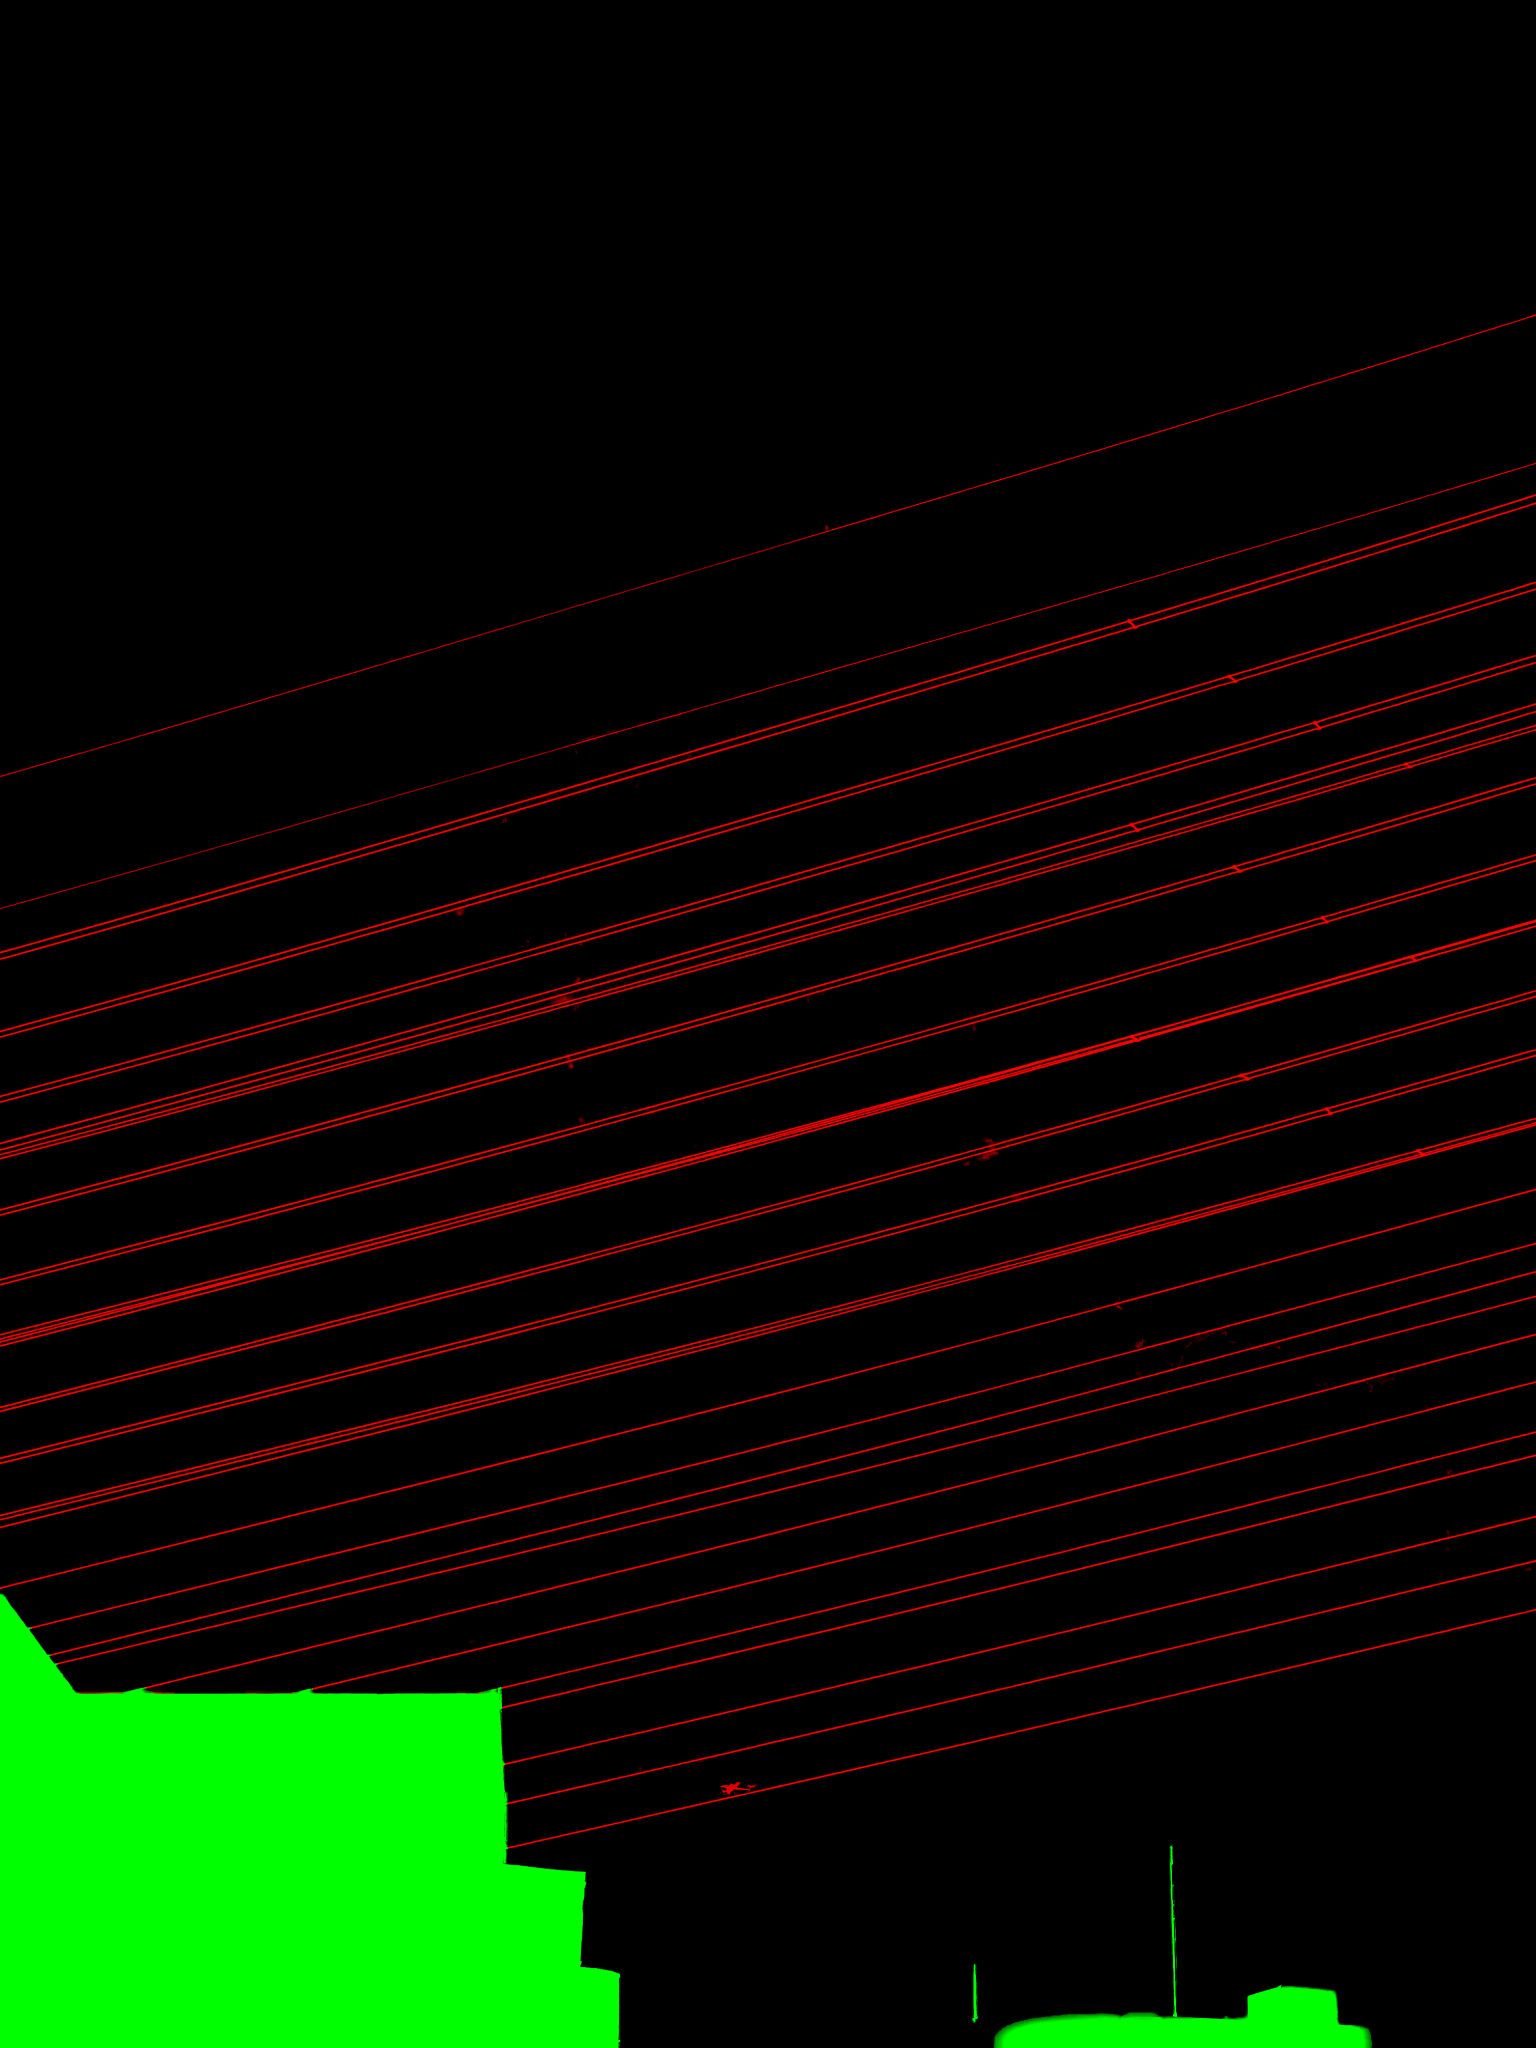
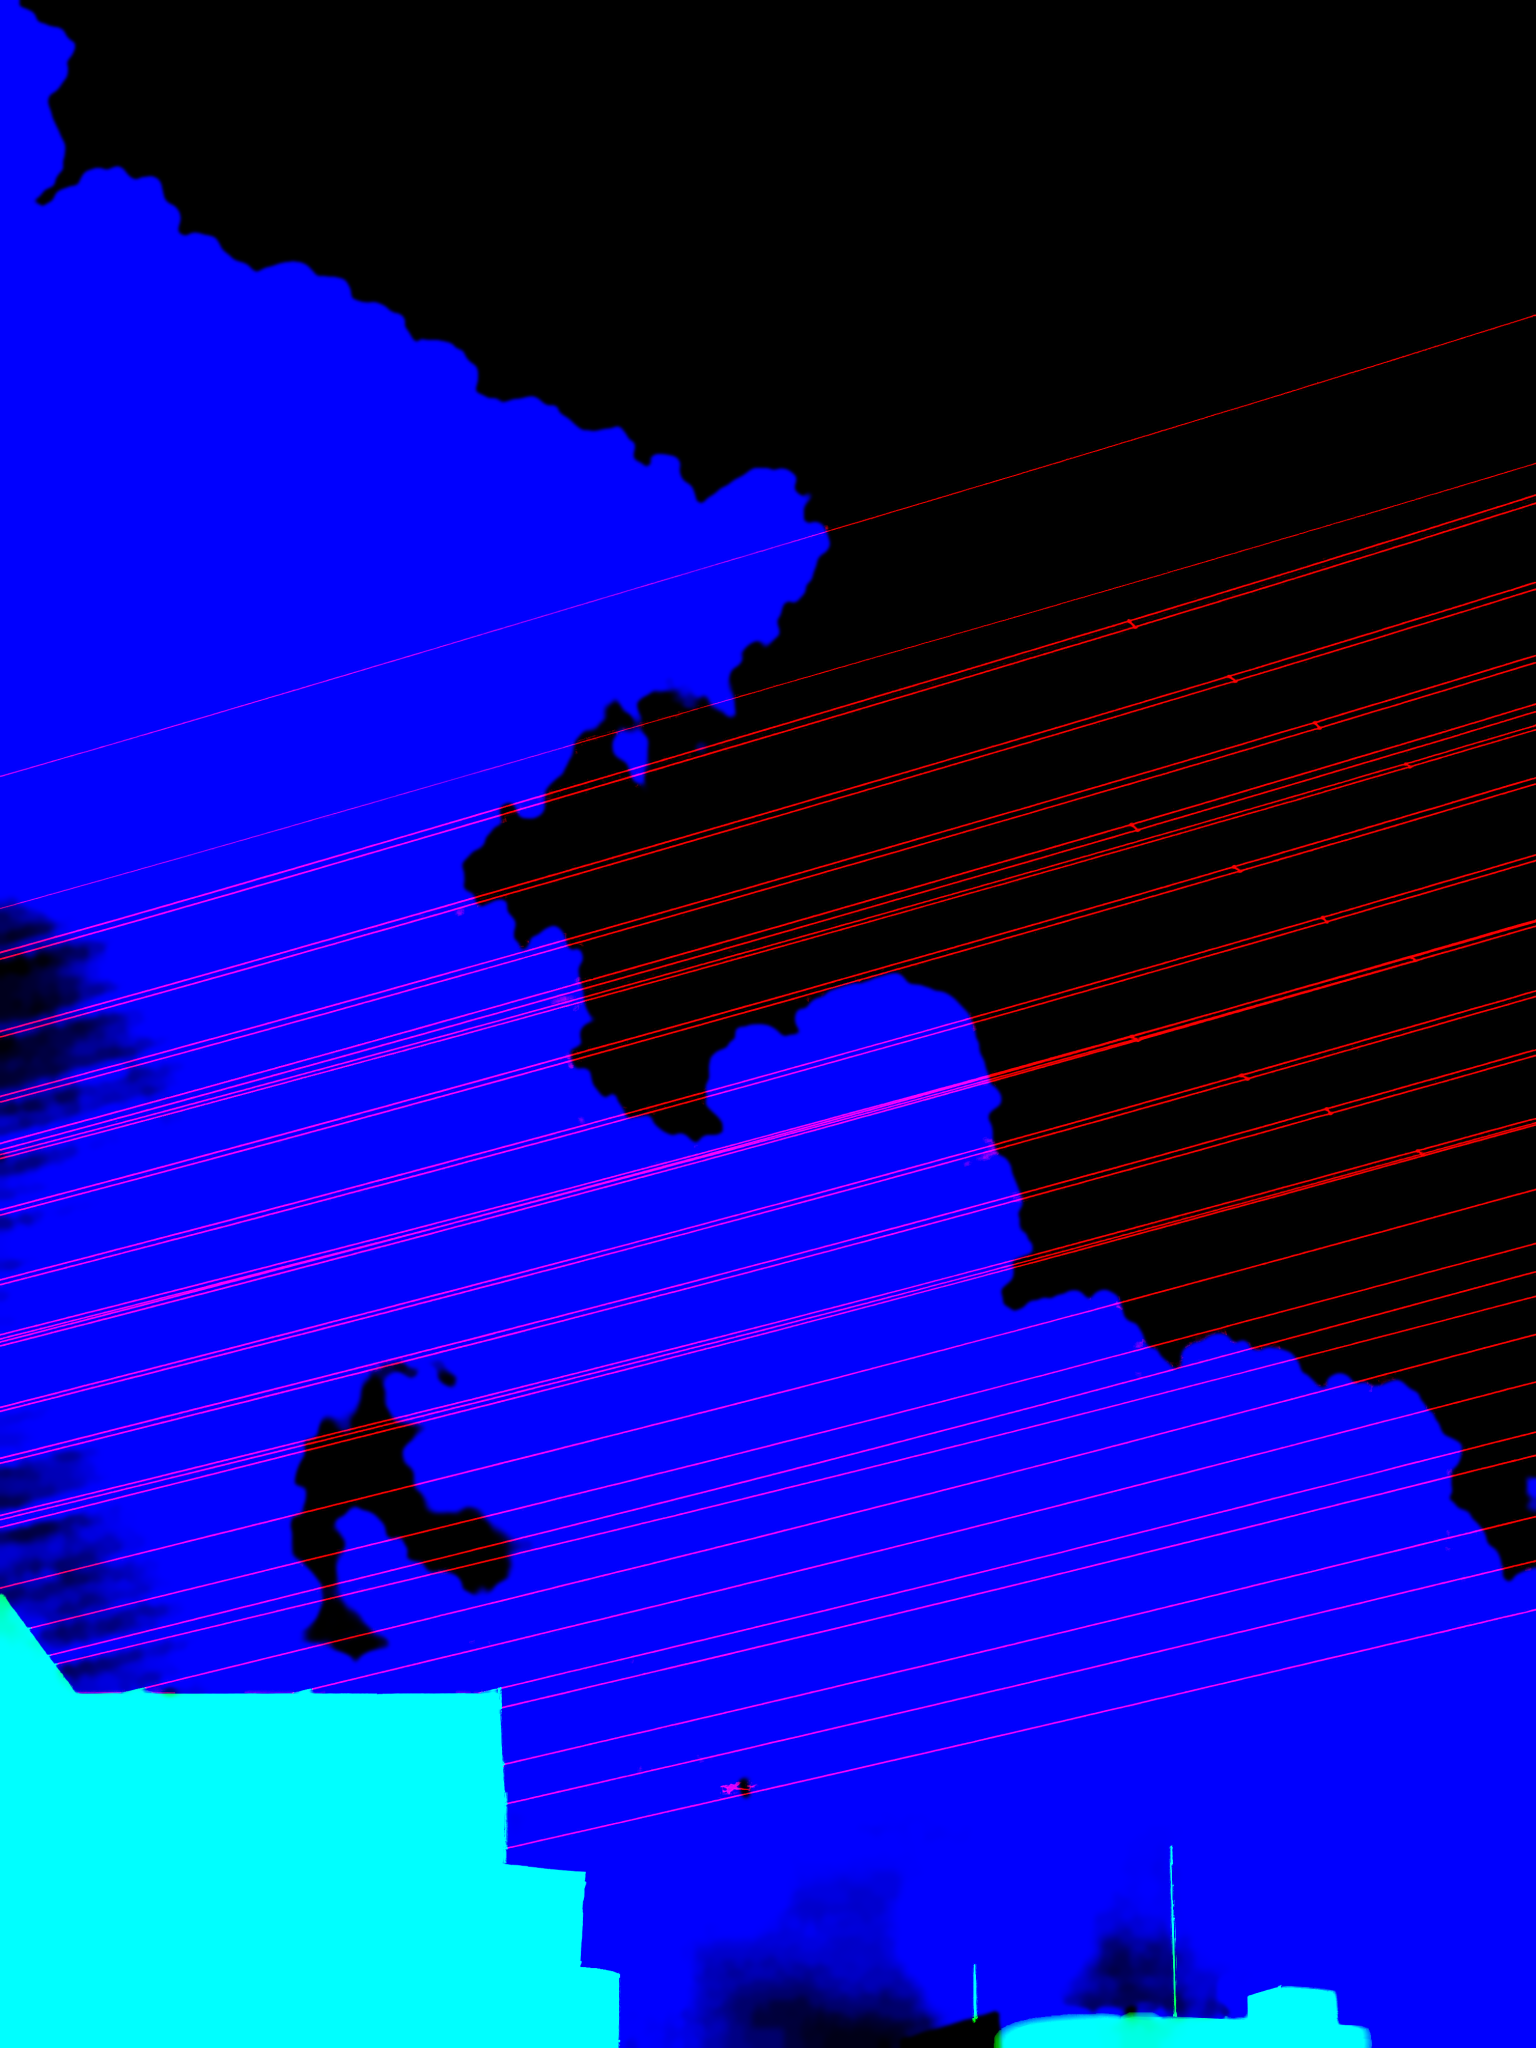
Lab: climb motion-brush round 1
Claude-Session: https://claude.ai/code/session_01RqENhngNCzDFmJWDZueXGV

diff --git a/src/app/lab/motion-brush/brushEngine.js b/src/app/lab/motion-brush/brushEngine.js
@@ -16,7 +16,13 @@ import { WIRE_Y, WIRE_VIS } from "./wires";
 // straight offset) a curved stroke carries the cloud round the curve instead
 // of smearing it. The two branches are blended with a variance-preserving
 // operator (Neyret 2003; Heitz & Neyret 2018) about a shared low-pass mean,
-// so the moving cloud keeps its grain instead of going soft mid-loop.
+// so the moving cloud keeps its grain instead of going soft mid-loop. The
+// blend is occlusion-aware: a branch whose source lies in the other layer
+// (cloud vs sky, baked into layers.png b), or that stalled, loses its weight,
+// and where the branches disagree the blend narrows to one of them, so a
+// diverging flow never leaves a double exposure. Open sky and the band along
+// the cloud's silhouette are held still, so the outline (and the dark pockets
+// of sky inside it) stays put while the cloud's texture drifts.
 //
 // The photograph is taken apart offline: the 26 wires are found as tracked
 // centrelines, matted (I = P + (1 - a) B, P their premultiplied colour, B the
@@ -41,7 +47,6 @@ const S0 = 520; // css px/s of pointer speed for 63% of VMAX
 const AMAX = 9; // plate px of wire sway for a fast stroke
 const K = WIRE_Y.length;
 const NS = WIRE_Y[0].length;
-const ZBETA = "7.0";
 const VIEW = [0.022, 0.022, 0.956, 0.956];
 
 // The pre-painted stroke: a slow drift right and a little up along the lean
@@ -74,7 +79,7 @@ uniform sampler2D uPlate;   // sky layer: wires painted out, roofs filled
 uniform sampler2D uLow;     // the same, Gaussian sigma 12 px
 uniform sampler2D uPhoto;   // the photograph
 uniform sampler2D uWire;    // premultiplied wire colour P
-uniform sampler2D uLayers;  // r wire alpha, g building alpha
+uniform sampler2D uLayers;  // r wire alpha, g building alpha, b cloud (vs sky)
 uniform sampler2D uField;   // vx, vy (plate px/s), cos, sin of paint phase
 uniform sampler2D uWGeo;    // ${NS} x ${K}: r wire centre y / PH
 uniform sampler2D uWAmp;    // ${NS} x ${K}: r sway amplitude px, g phase
@@ -104,6 +109,11 @@ void main() {
 
   // --- sky: two branches of the Eulerian flow, symmetric about the photo ---
   vec3 sky;
+  // the plate's mip level, taken here in uniform control flow: inside the
+  // branch below, neighbouring pixels can take the other path, and implicit
+  // derivatives there pick a blurred mip along the seam
+  vec2 dp = max(abs(dFdx(p)), abs(dFdy(p)));
+  float lod = max(0.0, log2(max(dp.x, dp.y)));
   vec4 f = texture(uField, pu);
   if (dot(f.rg, f.rg) * uEnv * uEnv < 1e-4) {
     sky = texture(uPlate, pu).rgb;
@@ -125,24 +135,53 @@ void main() {
     // sooner near its own end, where it has drifted furthest from the other
     float w = smoothstep(0.18, 0.86, tau / N);
     vec2 u1 = q1 / PLATE, u2 = q2 / PLATE;
-    vec3 a = texture(uPlate, u1).rgb, b = texture(uPlate, u2).rgb;
-    vec3 ma = texture(uLow, u1).rgb, mb = texture(uLow, u2).rgb;
-    // Softmax blend (the z-weighting of Holynski's symmetric splatting, with
-    // brightness standing in for the learned z): where one branch has cloud
-    // and the other open sky, the cloud wins, so mid-loop the cloud reads as
-    // one body that has grown a little rather than two half-transparent ones.
-    // (strongest mid-loop; near either end the outgoing branch just fades,
-    // so it never lingers as a ghost of where the cloud was headed)
-    float beta = ${ZBETA} * 4.0 * w * (1.0 - w);
-    float za = exp(beta * dot(ma, vec3(0.2126, 0.7152, 0.0722)));
-    float zb = exp(beta * dot(mb, vec3(0.2126, 0.7152, 0.0722)));
-    float wb = w * zb / ((1.0 - w) * za + w * zb);
+    vec3 a = textureLod(uPlate, u1, lod).rgb, b = textureLod(uPlate, u2, lod).rgb;
+    vec3 ma = textureLod(uLow, u1, 0.0).rgb, mb = textureLod(uLow, u2, 0.0).rgb;
+    vec3 sp = textureLod(uPlate, pu, lod).rgb;
+
+    // --- occlusion-aware blend ---
+    // A plain symmetric blend averages two warped copies, and where the flow
+    // diverges (a stroke's flank, the cloud/sky edge) those copies hold
+    // different things, so the result is a double exposure: a milky ghost of
+    // cloud over a dark pocket of sky. Instead each branch is weighted by how
+    // far it can be trusted at this pixel:
+    //  - layer: its source pixel must lie in the same layer (sky or cloud,
+    //    layers.b) as this pixel in the photograph, so a silhouette is never
+    //    carried across another layer;
+    //  - stall: it must have travelled about as far as the flow here says, or
+    //    it has run into the still band at a layer edge and is smearing.
+    // Where the two branches disagree (their luma, or the field's divergence),
+    // the blend narrows towards whichever branch is trusted, so the pixel is
+    // one sample, never two halves. Where neither is, the photograph holds.
+    // At either end of the loop the arriving branch sits on the pixel itself
+    // and has full trust, so the loop still starts and ends on the photograph.
+    float cp = textureLod(uLayers, pu, 2.0).b;
+    float ka = 1.0 - smoothstep(0.2, 0.6, abs(textureLod(uLayers, u1, 2.0).b - cp));
+    float kb = 1.0 - smoothstep(0.2, 0.6, abs(textureLod(uLayers, u2, 2.0).b - cp));
+    float sv = length(vel(p));
+    ka *= smoothstep(0.25, 0.6, (length(q1 - p) + 6.0) / (tau * sv + 6.0));
+    kb *= smoothstep(0.25, 0.6, (length(q2 - p) + 6.0) / ((N - tau) * sv + 6.0));
+    // divergence of the field (1/s) times the loop: the fraction by which a
+    // patch grows or shrinks over one loop
+    vec2 e = 1.0 / vec2(${GW}.0, ${GH}.0);
+    float div = (texture(uField, pu + vec2(e.x, 0.0)).r - texture(uField, pu - vec2(e.x, 0.0)).r) / (2.0 * PLATE.x * e.x)
+              + (texture(uField, pu + vec2(0.0, e.y)).g - texture(uField, pu - vec2(0.0, e.y)).g) / (2.0 * PLATE.y * e.y);
+    const vec3 LW = vec3(0.2126, 0.7152, 0.0722);
+    float dis = max(abs(dot(ma - mb, LW)), 0.6 * abs(dot(a - b, LW)));
+    float conflict = max(smoothstep(0.02, 0.07, dis), smoothstep(0.3, 0.9, abs(div) * uEnv * N));
+    float wa0 = (1.0 - w) * ka, wb0 = w * kb;
+    float wb = wb0 / max(wa0 + wb0, 1e-4);
+    if (wa0 + wb0 < 1e-4) wb = w;
+    wb = mix(wb, smoothstep(0.3, 0.7, wb), conflict);
     // Variance-preserving blend about the low-pass mean: the detail of two
     // decorrelated samples, averaged, loses contrast by sqrt(w^2+(1-w)^2);
     // give it back, in proportion to how decorrelated they are.
     float dc = smoothstep(2.0, 30.0, length(q1 - q2));
     float g = mix(1.0, inversesqrt(wb * wb + (1.0 - wb) * (1.0 - wb)), dc);
     sky = mix(ma, mb, wb) + ((1.0 - wb) * (a - ma) + wb * (b - mb)) * g;
+    // neither branch trusted: the photograph stays put
+    float hold = (1.0 - ka) * (1.0 - kb);
+    sky = mix(sky, sp, hold);
   }
 
   // --- wires: each sways on its own, periodic in the loop ---
@@ -305,6 +344,53 @@ function wireVisible(k, x) {
   return WIRE_VIS[k][i] === "1";
 }
 
+// Where the field is held still, on its grid: open sky, and the band where a
+// cell straddles the cloud/sky silhouette (layers.b), with half that one cell
+// out. Only cloud moves, inside its own outline; a dark pocket of sky stays
+// put, so it is never carried across, or under, the cloud beside it.
+function edgeBand(layers) {
+  const S = 4; // samples per cell side
+  const c = document.createElement("canvas");
+  c.width = GW * S;
+  c.height = GH * S;
+  const x = c.getContext("2d", { willReadFrequently: true });
+  x.imageSmoothingEnabled = true;
+  x.imageSmoothingQuality = "high";
+  x.drawImage(layers, 0, 0, c.width, c.height);
+  const d = x.getImageData(0, 0, c.width, c.height).data;
+  const edge = new Float32Array(GW * GH);
+  for (let gy = 0; gy < GH; gy++)
+    for (let gx = 0; gx < GW; gx++) {
+      let lo = 255;
+      let hi = 0;
+      let sum = 0;
+      for (let j = 0; j < S; j++)
+        for (let i = 0; i < S; i++) {
+          const v = d[((gy * S + j) * c.width + gx * S + i) * 4 + 2];
+          if (v < lo) lo = v;
+          if (v > hi) hi = v;
+          sum += v;
+        }
+      const t = clamp((hi - lo) / 255 / 0.5 - 0.4, 0, 1);
+      const sky = 1 - easeInOut((sum / (S * S * 255) - 0.3) / 0.4);
+      edge[gy * GW + gx] = Math.max(t * t * (3 - 2 * t), sky);
+    }
+  const band = new Float32Array(GW * GH);
+  for (let gy = 0; gy < GH; gy++)
+    for (let gx = 0; gx < GW; gx++) {
+      let m = edge[gy * GW + gx];
+      for (let dy = -1; dy <= 1; dy++)
+        for (let dx = -1; dx <= 1; dx++) {
+          const nx = gx + dx;
+          const ny = gy + dy;
+          if (nx < 0 || ny < 0 || nx >= GW || ny >= GH) continue;
+          m = Math.max(m, 0.5 * edge[ny * GW + nx]);
+        }
+      band[gy * GW + gx] = m;
+    }
+  return band;
+}
+
 export async function createMotionBrush(host, { embedded = false } = {}) {
   const q = new URLSearchParams(window.location.search);
   const num = (k) => {
@@ -344,7 +430,7 @@ export async function createMotionBrush(host, { embedded = false } = {}) {
   gc.height = GH;
   const g2 = gc.getContext("2d", { willReadFrequently: true });
   g2.drawImage(imgs[5], 0, 0);
-  const field = createField(g2.getImageData(0, 0, GW, GH).data, PW, PH, LOOP);
+  const field = createField(g2.getImageData(0, 0, GW, GH).data, PW, PH, LOOP, edgeBand(imgs[4]));
 
   tex.field = floatTexture(gl, GW, GH, new Float32Array(GW * GH * 4));
   const geo = new Float32Array(NS * K * 4);

diff --git a/src/app/lab/motion-brush/field.js b/src/app/lab/motion-brush/field.js
@@ -13,7 +13,8 @@
 // Strokes combine as a normalised weighted mean, so two strokes in the same
 // direction do not double the speed, and crossing strokes turn the flow.
 // The result is a static (Eulerian) velocity field plus, per cell, the time
-// it was painted, which starts that region's loop from the photograph.
+// it was painted, which starts that region's loop from the photograph. It is
+// held at zero along the cloud/sky edge band, so silhouettes stay put.
 
 export const GW = 96;
 export const GH = 128;
@@ -92,7 +93,9 @@ function boxFilter(src, r, out, sat, W, H) {
   }
 }
 
-export function createField(guide, plateW, plateH, loop) {
+// band (optional, per cell 0..1): where the field is held still, the edge
+// between layers that must not be carried across one another.
+export function createField(guide, plateW, plateH, loop, band = null) {
   const N = GW * GH;
   const cw = plateW / GW;
   const ch = plateH / GH;
@@ -340,7 +343,7 @@ export function createField(guide, plateW, plateH, loop) {
           ss += f.ps[i] * wi;
         }
         if (sw <= 0) continue;
-        const norm = 1 / Math.max(1, sw);
+        const norm = (band ? 1 - band[i] : 1) / Math.max(1, sw);
         data[i * 4] = sx * norm;
         data[i * 4 + 1] = sy * norm;
         data[i * 4 + 2] = sc / sw;

diff --git a/tools/depth/bakes/motion-brush/p7_cloud.py b/tools/depth/bakes/motion-brush/p7_cloud.py
@@ -1,0 +1,34 @@
+# Sky vs cloud, into the blue channel of layers.png.
+#
+# The composite needs to know which layer a warped sample came from, so the
+# Eulerian blend can refuse a sample that crossed the cloud/sky boundary (the
+# source of the milky double exposure where the flow diverges). Open sky here
+# is dark and blue, cloud (even its blue-grey shaded underside) is brighter and
+# greyer, so L - 0.8 (B - R) on the plate is cleanly bimodal: sky -0.10..0.05,
+# cloud 0.10 and up. The hazy pocket low in the shaded underside sits at
+# 0.09..0.12 against 0.2..0.3 around it: it reads, and must move, as sky, so the
+# threshold sits above it. Run from the repo root:
+#   python3 tools/depth/bakes/motion-brush/p7_cloud.py
+import cv2
+import numpy as np
+
+PUB = 'public/lab/motion-brush/'
+
+plate = cv2.imread(PUB + 'plate.webp', cv2.IMREAD_COLOR)[:, :, ::-1].astype(np.float32) / 255
+lay = cv2.imread(PUB + "layers.png", cv2.IMREAD_COLOR)  # BGR: b cloud (this), g building, r wire
+
+p = cv2.GaussianBlur(plate, (0, 0), 3)
+r, g, b = p[..., 0], p[..., 1], p[..., 2]
+L = 0.2126 * r + 0.7152 * g + 0.0722 * b
+s = L - 0.8 * (b - r)
+t = np.clip((s - 0.12) / 0.06, 0, 1)
+c = t * t * (3 - 2 * t)
+# the painted-out wires leave faint streaks: close then open along a small disc
+k = cv2.getStructuringElement(cv2.MORPH_ELLIPSE, (7, 7))
+c = cv2.morphologyEx(c, cv2.MORPH_CLOSE, k)
+c = cv2.morphologyEx(c, cv2.MORPH_OPEN, k)
+c = cv2.GaussianBlur(c, (0, 0), 1.5)
+print('cloud fraction', float(c.mean()))
+
+lay[:, :, 0] = (np.clip(c, 0, 1) * 255 + 0.5).astype(np.uint8)
+cv2.imwrite(PUB + 'layers.png', lay, [cv2.IMWRITE_PNG_COMPRESSION, 9])

diff --git a/tools/depth/bakes/motion-brush/p6_export.py b/tools/depth/bakes/motion-brush/p6_export.py
@@ -11,6 +11,7 @@ save_rgb(PUB + 'plate.webp', rs(Bp), q=92)
 # premultiplied wire colour, lossless (mostly black)
 Pd = rs(P)
 cv2.imwrite(PUB + 'wire.png', (np.clip(Pd, 0, 1)[:, :, ::-1] * 255 + 0.5).astype(np.uint8), [cv2.IMWRITE_PNG_COMPRESSION, 9])
+# b is left empty here; p7_cloud.py fills it with the cloud/sky layer
 lay = np.stack([rs(aW), rs(Ab), np.zeros((PH, PW), np.float32)], 2)
 cv2.imwrite(PUB + 'layers.png', (np.clip(lay, 0, 1)[:, :, ::-1] * 255 + 0.5).astype(np.uint8), [cv2.IMWRITE_PNG_COMPRESSION, 9])
 # guide for the field solver: luma, blueness, building (max over the cell)
